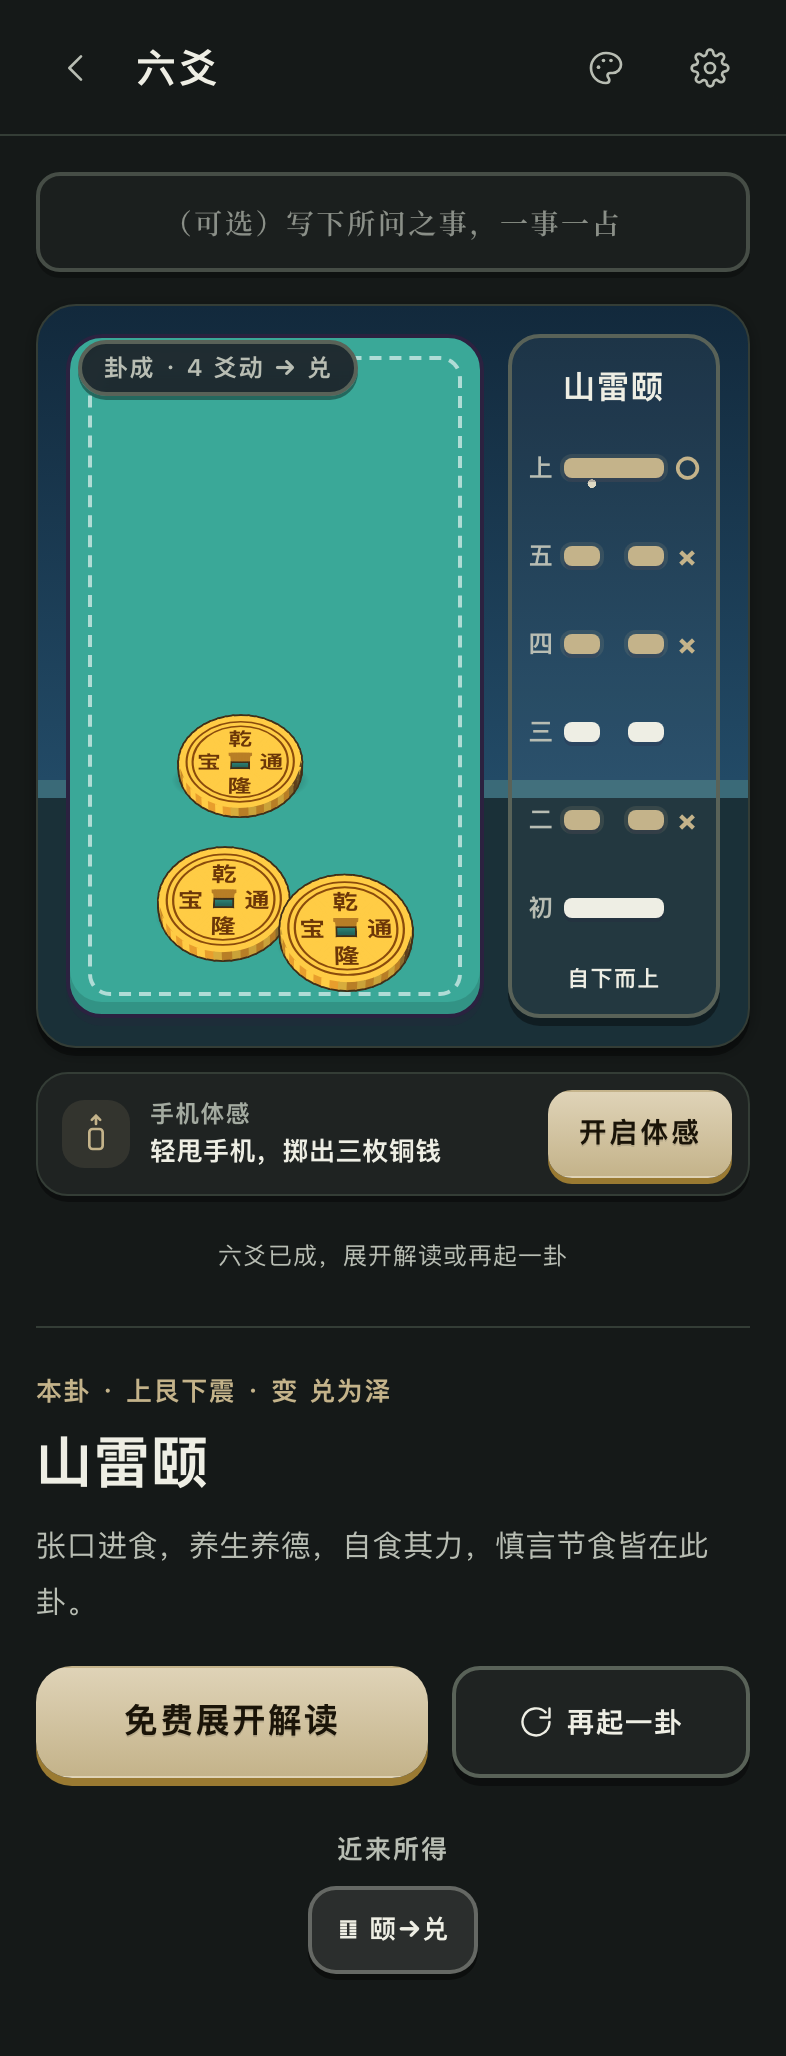
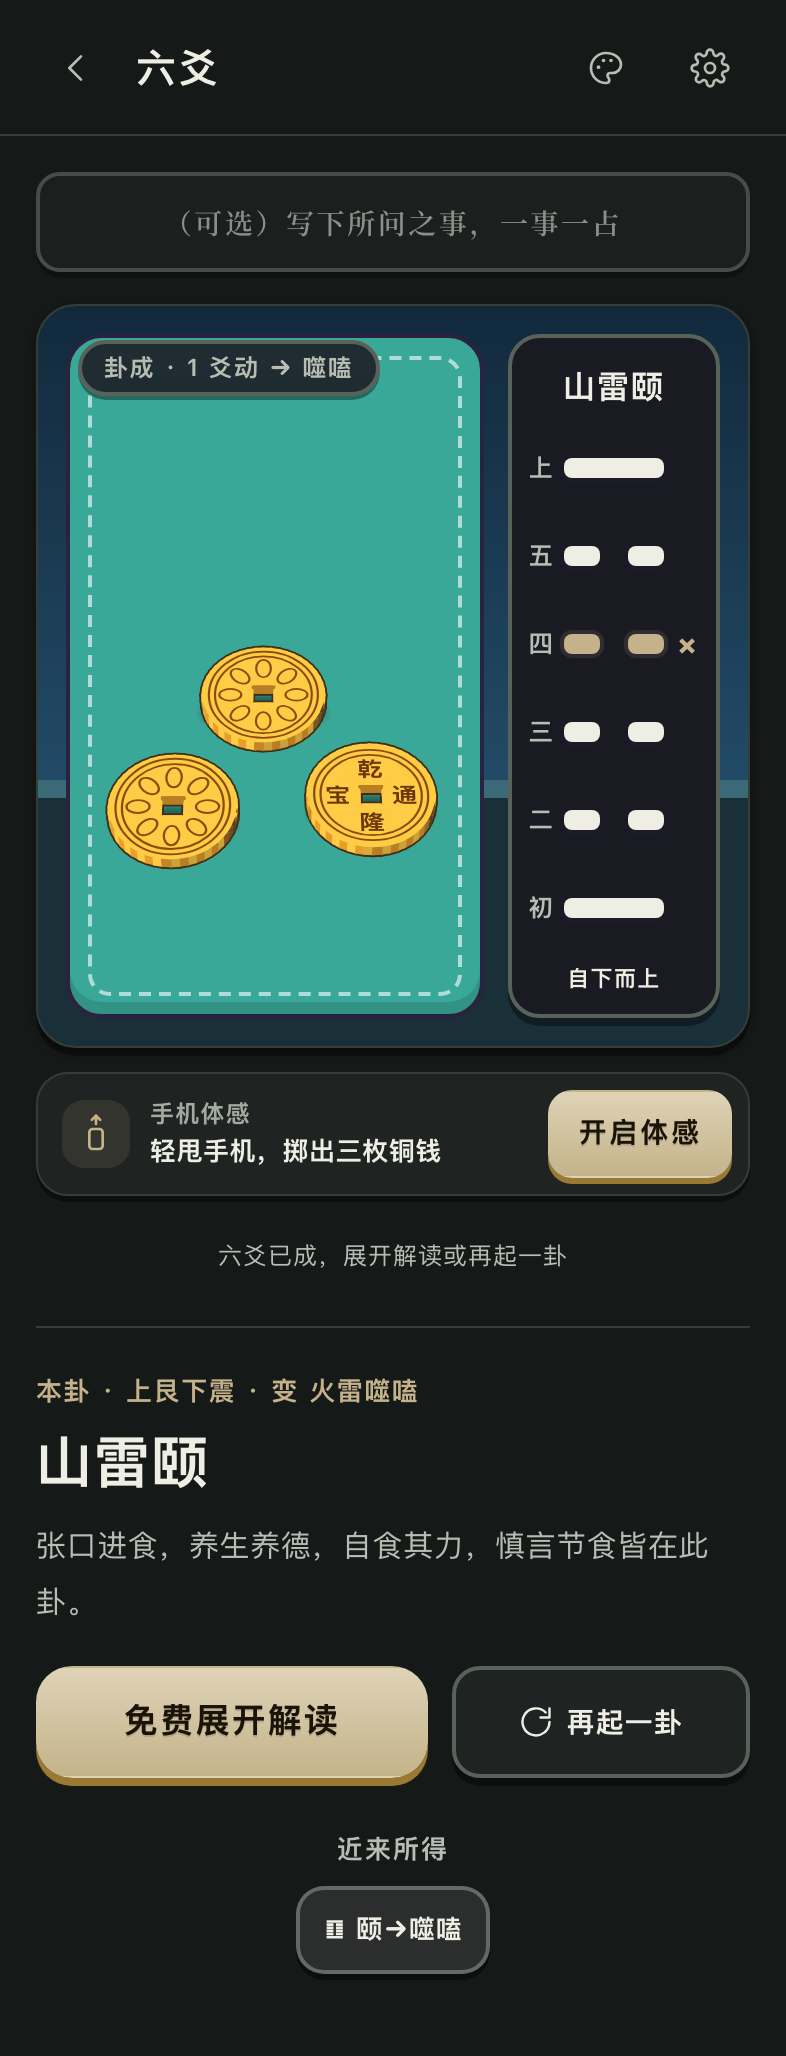
六爻钱盘地面提到 .63 让铜钱落在盘子中部，深色皮肤卦板改不透明底挡住背后星点（第 74 轮）
Claude-Session: https://claude.ai/code/session_01LrMMAaj4jbs4nrbDYBfDFM

diff --git a/src/styles/toon-props.css b/src/styles/toon-props.css
@@ -405,6 +405,11 @@
   border: 2px solid var(--line-strong);
   box-shadow: 0 4px 0 var(--edge-color);
 }
+/* 第 74 轮：深色皮肤的 --surface 只有 5% 白，卦板透出背后夜空的星点和地平线，
+   上爻旁边像多了两颗白点。深色皮肤卦板改用不透明的 --surface-strong。 */
+:is([data-theme='ink'], [data-theme='cinnabar'], [data-theme='nebula']) .m-liuyao .ly-board {
+  background: var(--surface-strong);
+}
 .m-liuyao .ly-board-title {
   font-family: var(--font-round, var(--font-sans));
   font-weight: 900;

diff --git a/src/modules/liuyao/coins.js b/src/modules/liuyao/coins.js
@@ -3,7 +3,7 @@ import { createSolidScene } from '../../ui/solid-scene.js';
 import { COIN } from './core.js';
 import { UI } from './data.js';
 
-export const COIN_VIEW = { ground: .78, worldWidth: 260 };
+export const COIN_VIEW = { ground: .63, worldWidth: 260 };
 export function coinFaces(values) {
   if (values.length !== 3 || values.some(v => v !== COIN.ZI && v !== COIN.HUA)) throw new Error('需要三枚铜钱的字面或花面');
   return values.map(v => v === COIN.ZI ? 'heads' : 'tails');

diff --git a/docs/claude-plan/visual-direction.md b/docs/claude-plan/visual-direction.md
@@ -70,6 +70,7 @@
 - 灵签签纸（第 53 轮，`toon-props.css`）：和御神签同一套。奶油纸 #fffaf0、2.5px #2b2240 描边、圆角 14px、0 5px 0 #2b2240 硬厚边加柔和投影，去掉内框淡线。顶部朱红 #e8463c 标签白字签号圆体 800 13px，横向铺满（窄屏内边距 16px 同步）。标题圆体 900 23px，签诗上方 2px 虚线，签诗保留宋体字距 .08em。印章朱红实心白字圆体 900 18px、2.5px 描边、圆角 10px、0 3px 0 厚边，仍是 -8deg 斜盖。
 - 灵签 2D 舞台掉出的签（第 72 轮，`stick-scene.js` 的 `STICK_FREE` 与 `LABEL_CHIP`）：筒里的签 5.8 × 3.8、签头 18，掉出来平躺的那根加粗到 12 × 9、签头 26，俯角下仍是一根胖签，不再像火柴。签号不写在签上，在签下方放一枚白底胶囊：高 28px、左右内边距 10px、2px #2b2240 描边、下沉 3px #2b2240 厚边，圆体 900 16px 朱红 #d8402e 字。分享卡在没有 WebGL 时截的就是这一幕。抽屉标题（`.sheet-head .sheet-title`，`playful.css`）圆体 900、18px、字距 .02em。
 - 分享卡签诗（第 73 轮，`share-card.js` 的 `poemRows` 与 `layoutBody`）：签诗单独排，42px 800 深墨 #2b2240，行高 64，御神签两句一行、中间一个全角空格，灵签七言整句一行。解读与事项仍是 38px 500 #6b6585，行高 60，诗句结束后多空 16px。六爻卦板阴爻（`toon-props.css`）：左右两块各占 36%、圆角 4px、各自 0 2px 0 rgba(43,34,64,.22) 厚边，中间空 28%，动爻两块都用 --accent 加 2px --glow 光圈。
+- 六爻钱盘与卦板（第 74 轮）：钱盘地面 `COIN_VIEW.ground` .63（原 .78），落定铜钱群中心在盘高 42% 到 62% 之间、离盘底至少 40px。深色皮肤（玄墨、朱砂、星穹）卦板底色用不透明 `--surface-strong`，不让夜空星点和地平线透过来。
 - 结果抽屉印章与灵签分述（第 58 轮，`toon-reading.css`）：所有玩法结果抽屉右上角的印章和签纸印章同一套，朱红实心 #d63a30（对白字 4.66:1，青瓷 #a8392b），白字圆体 900，2.5px #2b2240 描边、圆角 12px、0 3px 0 #2b2240 硬厚边加 inset 0 3px 0 白色 30% 顶部硬高光，不透明、不正片叠底，-8deg 斜盖。分段标签 2px 主色 50% 描边加 0 2px 0 下沉影。灵签分述六项每项一张白底小卡，2px --line-strong 描边、圆角 14px、0 3px 0 厚边，项名主色 12% 浅底胶囊圆体 800 12px，内容 14px 字重 600 正文色。深色皮肤里塔罗、卢恩的「逆位」胶囊用 #ff7a66。
 - 抽屉分项小卡（第 59 轮，`toon-reading.css` 末节）：六爻动爻、六爻分项、御神签十二项目和灵签分述同一套，白底 --surface、2px --line-strong 描边、圆角 14px、0 3px 0 --edge-color 厚边，项名主色 12% 浅底胶囊圆体 800 12px，内容 14px 字重 600。动爻记号放进 22px、2px 主色描边的圆章，规则标题圆体 800 15px。姻缘感情流年的图例一条一行，项名是 2px 主色 45% 描边的小胶囊，行间 2px 虚线。340px 以下十二项目改单栏。
 - 黄历详解（第 60 轮，`toon-reading.css` 末节）：细目两栏改 82px 名目列，名目是 2px 主色 45% 描边小胶囊、圆体 800 12px，行间 2px 虚线，正文 --text 字重 600。宜忌、吉神、凶煞词条 32px 高、2px --line-strong 描边、0 3px 0 厚边、圆体 800 13px，按下下移 2px，宜与吉神主色 10% 浅底主色字，忌用 --danger 描边与字，凶煞 --surface-2 底。「此刻」时辰提示和六爻动爻同款描边厚边小卡，标题放进主色浅底胶囊。择日事项行 40px 高描边厚边胶囊，横向滚动行底部留 5px。

diff --git a/docs/claude-plan/TODO.md b/docs/claude-plan/TODO.md
@@ -193,4 +193,4 @@ P0 上架必需 · P1 影响付费转化 · P2 体验打磨。完成后打勾并
 - [x] **灵签分享卡 2D 回退里的细签与抽屉标题**（P2，第 71 轮复查分享卡与付费卡时记下）✅ 2026-11-23（第 72 轮。没有 WebGL 时灵签舞台掉出来的签平躺后只剩一道 5.8 × 3.8 的细线，签号是 14px 白描边小字，截进分享卡像一根火柴。`stick-scene.js` 掉出来的签加粗到 12 × 9、签头加长到 26，签号改白底深墨描边厚边胶囊、圆体 900 朱红字。抽屉标题「解锁更多」「设置」「分享」原来 800 字重配 .06em 字距，比卡片标题还散，改圆体 900、18px、字距 .02em。`tests/toon-stick-label.test.mjs` 3 项，宣纸与玄墨两种尺寸截图过目）
 - [x] **分享卡签诗和解读挤在一起、末字落单**（P2，第 73 轮补拍御神签分享卡时发现）✅ 2026-11-24（御神签四句和解读、事项全用 38px 灰色细字逐字折行，「待水势缓时」的「时」掉到下一行单独一行，灵签的七言诗也和签语一个样子，分享出去看不出哪句是签诗。`share-card.js` 新增 `poemRows` 与 `layoutBody`：御神签「甲 / 乙 / 丙 / 丁」两句一行、中间全角空格，灵签「七言，七言。」整句一行，放不下才按逗号拆，诗句改 42px 800 深墨，诗句结束多空 16px 再接灰色解读。只认纯汉字短句，风水方位与塔罗关键词不受影响。`tests/toon-share-poem.test.mjs` 前 4 项，御神签与灵签分享卡两种尺寸截图过目）
 - [x] **六爻卦板阴爻和阳爻分不清**（P2，第 73 轮 `--no-webgl` 复查六爻长图发现）✅ 2026-11-24（卦板一爻约 50px 宽，阴爻中间只空 20% 约 10px，2px 厚边阴影又在空档下面连成一条，远看和阳爻差不多。`toon-props.css` 里亮起的阴爻改成左右两块各 36% 的独立圆角块，各自带厚边阴影，中间空 28%，动爻两块都用主色加光圈，历史小卦图同样改为 36% 与 64% 分界。`tests/toon-share-poem.test.mjs` 第 5 项，宣纸与玄墨两种尺寸截图过目）
-- [ ] **六爻铜钱盘下方空、铜钱挤在底部**（P2，第 73 轮记下）：2D 回退里铜钱落定后都在盘子下三分之一，上面一大片空青绿。完成标准：落定位置分布到盘子中部，或盘子高度随卦板收小，宣纸长图里铜钱不再贴底。注意 `coin` 模块有第 45 轮未提交改动，只改 `liuyao` 自己的文件。
+- [x] **六爻铜钱盘下方空、铜钱挤在底部** ✅ 2026-11-24（第 74 轮，`liuyao/coins.js` 的 `COIN_VIEW.ground` 从 .78 提到 .63，三枚铜钱落定后整体在盘子中部，最强一掷仍不出框。同轮顺手查明玄墨上爻旁的小白点是深色皮肤卦板只有 5% 白底、透出背后夜空星点，深色皮肤卦板改用不透明 `--surface-strong`。`tests/liuyao-tray-center.test.mjs` 3 项）（P2，第 73 轮记下）：2D 回退里铜钱落定后都在盘子下三分之一，上面一大片空青绿。完成标准：落定位置分布到盘子中部，或盘子高度随卦板收小，宣纸长图里铜钱不再贴底。注意 `coin` 模块有第 45 轮未提交改动，只改 `liuyao` 自己的文件。
